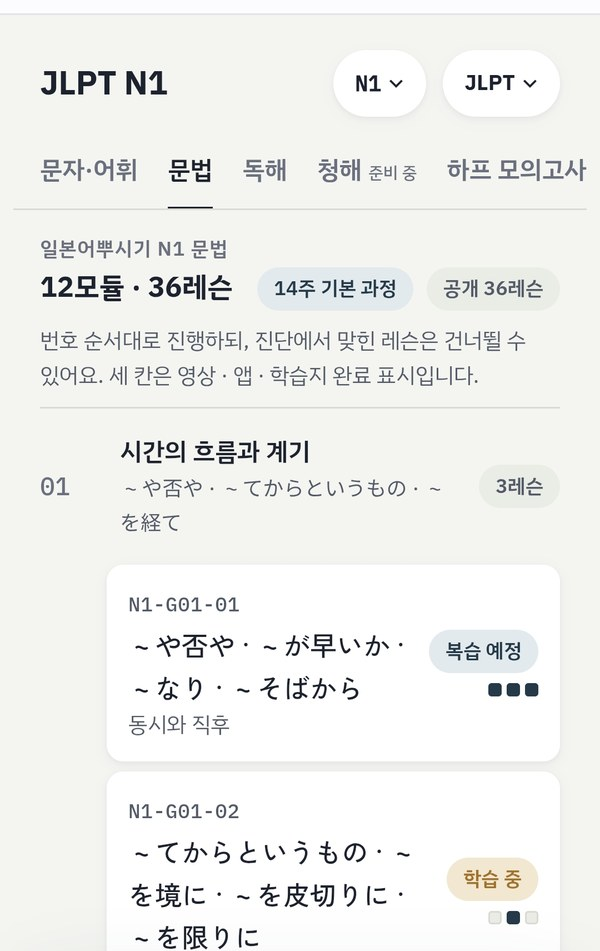
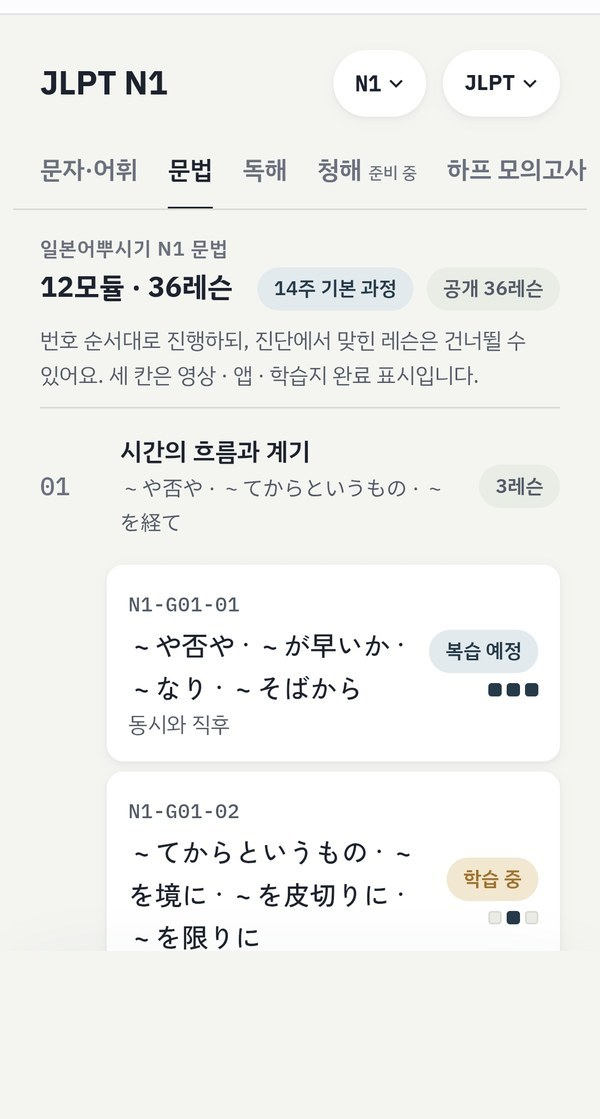
Fix 목업 비율 통일과 여행회화 링크 연결
목업
- 화면 이미지 높이가 제각각이라 프레임과 어긋나던 문제 수정.
  모두 600x1119 로 맞춰 잘림 없이 들어갑니다
  (짧은 화면은 앱 배경색으로 아래를 채우고, 긴 화면은 아래를 잘라냄)
- 여행회화 첫 화면의 목업 두 장을 좌우로 바꿈

여행회화 링크
- 체험 버튼을 ikhim.app/#/w 로 연결
- 언어 카드 11개를 각 코스 주소로 연결
  (영어 en · 중국어 zh · 홍콩 zh-hk · 대만 zh-tw · 스페인어 es ·
   독일어 de · 프랑스어 fr · 태국어 th · 베트남어 vi · 아랍어 ar · 한국어 ko)
- 상황 예시의 '이 상황 학습하기'는 예시와 같은 여행 영어 과정으로 연결

Claude-Session: https://claude.ai/code/session_01F3xSEP3hKT6QiGfqjDTpZV

diff --git a/landing/travel.html b/landing/travel.html
@@ -41,8 +41,7 @@
     </nav>
 
     <div class="header-actions">
-      <!-- TODO: 언어별 코스 주소가 정해지면 각 링크를 해당 코스로 교체 -->
-      <a class="btn btn-primary btn-sm" href="https://ikhim.app/" target="_blank" rel="noopener">무료로 시작하기</a>
+      <a class="btn btn-primary btn-sm" href="https://ikhim.app/#/w" target="_blank" rel="noopener">무료로 시작하기</a>
       <button class="nav-toggle" id="navToggle" aria-expanded="false" aria-controls="siteNav" aria-label="메뉴 열기">
         <span></span><span></span><span></span>
       </button>
@@ -70,7 +69,7 @@
       </div>
 
       <div class="hero-visual reveal">
-        <div class="phone-pair">
+        <div class="phone-pair phone-pair-mirror">
           <figure class="phone phone-back">
             <div class="phone-screen" data-screen="익힘 외국어 홈 화면">
               <img src="assets/screens/travel-home.jpg" alt="익힘 외국어 홈에서 여행 시리즈와 오늘의 여행 한마디를 보여주는 화면" loading="eager" />
@@ -95,30 +94,29 @@
         <p>배우고 싶은 언어를 선택하세요. 현재 무료 베타로 공개된 과정을 바로 경험할 수 있습니다.</p>
       </header>
 
-      <!-- TODO: 각 카드의 href 를 해당 언어 코스 주소로 교체 -->
       <ul class="lang-grid">
-        <li class="reveal"><a href="https://ikhim.app/" target="_blank" rel="noopener">
+        <li class="reveal"><a href="https://ikhim.app/#/w/c/en" target="_blank" rel="noopener">
           <strong>영어</strong><span lang="en">English</span><em>미국 · 영국 · 호주</em><span class="go">과정 보기</span></a></li>
-        <li class="reveal is-guide"><a href="https://ikhim.app/" target="_blank" rel="noopener">
+        <li class="reveal is-guide"><a href="https://ikhim.app/#/w/ko" target="_blank" rel="noopener">
           <strong>한국어</strong><span lang="ko">한국어</span><em>한국 여행</em>
           <span class="guide-note">영어 · 일본어 · 중국어권 학습자를 위한 안내 지원</span><span class="go">과정 보기</span></a></li>
-        <li class="reveal"><a href="https://ikhim.app/" target="_blank" rel="noopener">
+        <li class="reveal"><a href="https://ikhim.app/#/w/c/zh" target="_blank" rel="noopener">
           <strong>중국어</strong><span lang="zh-Hans">普通话</span><em>상하이 · 베이징</em><span class="go">과정 보기</span></a></li>
-        <li class="reveal"><a href="https://ikhim.app/" target="_blank" rel="noopener">
+        <li class="reveal"><a href="https://ikhim.app/#/w/c/zh-hk" target="_blank" rel="noopener">
           <strong>중국어 (홍콩)</strong><span lang="yue">廣東話</span><em>홍콩 · 광둥어</em><span class="go">과정 보기</span></a></li>
-        <li class="reveal"><a href="https://ikhim.app/" target="_blank" rel="noopener">
+        <li class="reveal"><a href="https://ikhim.app/#/w/c/zh-tw" target="_blank" rel="noopener">
           <strong>중국어 (대만)</strong><span lang="zh-Hant">國語</span><em>타이베이 · 가오슝</em><span class="go">과정 보기</span></a></li>
-        <li class="reveal"><a href="https://ikhim.app/" target="_blank" rel="noopener">
+        <li class="reveal"><a href="https://ikhim.app/#/w/c/es" target="_blank" rel="noopener">
           <strong>스페인어</strong><span lang="es">Español</span><em>스페인 · 중남미</em><span class="go">과정 보기</span></a></li>
-        <li class="reveal"><a href="https://ikhim.app/" target="_blank" rel="noopener">
+        <li class="reveal"><a href="https://ikhim.app/#/w/c/de" target="_blank" rel="noopener">
           <strong>독일어</strong><span lang="de">Deutsch</span><em>독일어권</em><span class="go">과정 보기</span></a></li>
-        <li class="reveal"><a href="https://ikhim.app/" target="_blank" rel="noopener">
+        <li class="reveal"><a href="https://ikhim.app/#/w/c/fr" target="_blank" rel="noopener">
           <strong>프랑스어</strong><span lang="fr">Français</span><em>프랑스어권</em><span class="go">과정 보기</span></a></li>
-        <li class="reveal"><a href="https://ikhim.app/" target="_blank" rel="noopener">
+        <li class="reveal"><a href="https://ikhim.app/#/w/c/th" target="_blank" rel="noopener">
           <strong>태국어</strong><span lang="th">ภาษาไทย</span><em>태국</em><span class="go">과정 보기</span></a></li>
-        <li class="reveal"><a href="https://ikhim.app/" target="_blank" rel="noopener">
+        <li class="reveal"><a href="https://ikhim.app/#/w/c/vi" target="_blank" rel="noopener">
           <strong>베트남어</strong><span lang="vi">Tiếng Việt</span><em>베트남</em><span class="go">과정 보기</span></a></li>
-        <li class="reveal"><a href="https://ikhim.app/" target="_blank" rel="noopener">
+        <li class="reveal"><a href="https://ikhim.app/#/w/c/ar" target="_blank" rel="noopener">
           <strong>아랍어</strong><span lang="ar" dir="rtl">العربية</span><em>아랍어권</em><span class="go">과정 보기</span></a></li>
       </ul>
 
@@ -224,7 +222,7 @@
             <p><span>어떤 상황</span>예시는 여행 영어 5회, 공항 입국심사 · 수하물입니다.</p>
             <p><span>무엇을 연습</span>상황을 보고 그 자리에서 쓸 표현을 고릅니다.</p>
             <p><span>어디서 확인</span>고른 뒤 바로 정답과 뜻을 함께 확인합니다.</p>
-            <a class="btn btn-primary" href="https://ikhim.app/" target="_blank" rel="noopener">이 상황 학습하기</a>
+            <a class="btn btn-primary" href="https://ikhim.app/#/w/c/en" target="_blank" rel="noopener">이 상황 학습하기</a>
           </div>
         </div>
       </div>
@@ -277,7 +275,7 @@
           <li>의견을 반영해 콘텐츠와 기능 개선</li>
         </ul>
         <!-- TODO: 실제 설문·문의 경로가 준비되면 '의견 보내기' 보조 버튼을 이 아래에 추가 -->
-        <a class="btn btn-primary btn-lg" href="https://ikhim.app/" target="_blank" rel="noopener">무료로 체험하기</a>
+        <a class="btn btn-primary btn-lg" href="https://ikhim.app/#/w" target="_blank" rel="noopener">무료로 체험하기</a>
       </div>
     </div>
   </section>
@@ -371,7 +369,7 @@
       <a href="#how">학습 방식</a>
       <a href="#faq">자주 묻는 질문</a>
       <a href="index.html">익힘 일본어</a>
-      <a href="https://ikhim.app/" target="_blank" rel="noopener">무료로 시작하기</a>
+      <a href="https://ikhim.app/#/w" target="_blank" rel="noopener">무료로 시작하기</a>
     </nav>
     <p class="footer-legal">
       <!-- TODO: 실제 문의 이메일로 교체하세요 -->

diff --git a/landing/travel.css b/landing/travel.css
@@ -119,6 +119,9 @@ ul, ol, dl, dd { margin: 0; padding: 0; list-style: none; }
 
 .hero-visual { display: flex; flex-direction: column; align-items: center; padding-top: 12px; }
 .phone-pair { display: flex; align-items: flex-end; justify-content: center; }
+/* 좌우를 뒤집어 큰 화면이 왼쪽에 오게 한다 */
+.phone-pair-mirror { flex-direction: row-reverse; }
+.phone-pair-mirror .phone-back { margin-right: 0; margin-left: -52px; transform: rotate(4deg) translateY(-10px); }
 .phone-pair .phone-back {
   max-width: 214px; margin-right: -52px; transform: rotate(-4deg) translateY(-10px);
   z-index: 1; opacity: 0.97;
